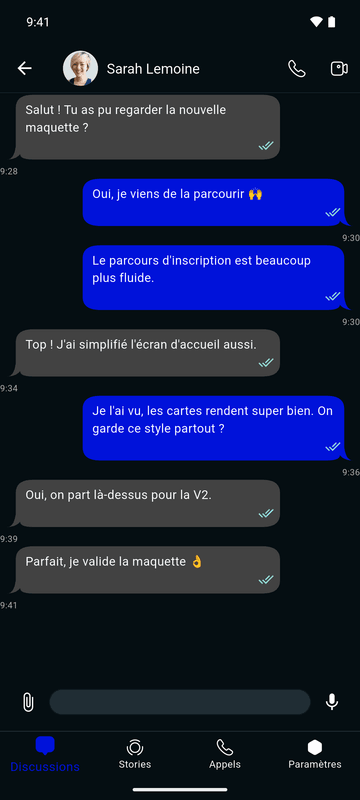
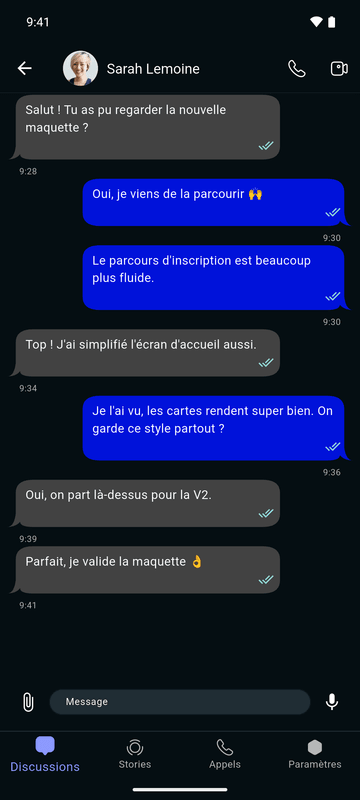
fix(ui): lisibilité sur fond sombre
Icônes claires dans la barre d'état, titre de connexion en blanc, liens et onglet actif dans un bleu éclairci, libellés « Rechercher » et « Message » dans les champs, heures des messages alignées sur les bulles. Captures et visite animée du README mises à jour.

diff --git a/lib/presentation/widget/bottom_nav.dart b/lib/presentation/widget/bottom_nav.dart
@@ -32,26 +32,26 @@ class _BottomNavState extends State<BottomNav> {
     PersistentBottomNavBarItem(
       icon: const Icon(Iconsax.message1, size: 22),
       title: "Discussions",
-      activeColorPrimary: AppColors.primaryColor,
-      inactiveColorPrimary: Colors.white,
+      activeColorPrimary: AppColors.accentText,
+      inactiveColorPrimary: Colors.white70,
     ),
     PersistentBottomNavBarItem(
       icon: const Icon(Iconsax.story, size: 22),
       title: "Stories",
-      activeColorPrimary: AppColors.primaryColor,
-      inactiveColorPrimary: Colors.white,
+      activeColorPrimary: AppColors.accentText,
+      inactiveColorPrimary: Colors.white70,
     ),
     PersistentBottomNavBarItem(
       icon: const Icon(Iconsax.call, size: 22),
       title: "Appels",
-      activeColorPrimary: AppColors.primaryColor,
-      inactiveColorPrimary: Colors.white,
+      activeColorPrimary: AppColors.accentText,
+      inactiveColorPrimary: Colors.white70,
     ),
     PersistentBottomNavBarItem(
       icon: const Icon(Iconsax.setting1, size: 22),
       title: "Paramètres",
-      activeColorPrimary: AppColors.primaryColor,
-      inactiveColorPrimary: Colors.white,
+      activeColorPrimary: AppColors.accentText,
+      inactiveColorPrimary: Colors.white70,
     ),
   ];
 

diff --git a/lib/presentation/navigation/root.dart b/lib/presentation/navigation/root.dart
@@ -1,4 +1,5 @@
 import 'package:flutter/material.dart';
+import 'package:flutter/services.dart';
 import 'package:provider/provider.dart';
 import '../../data/providers/auth_provider.dart';
 import '../../data/providers/bottom_nav_provider.dart';
@@ -23,6 +24,12 @@ class Root extends StatelessWidget {
         theme: ThemeData(
           colorScheme: ColorScheme.fromSeed(seedColor: Colors.deepPurple),
           useMaterial3: true,
+          appBarTheme: const AppBarTheme(systemOverlayStyle: SystemUiOverlayStyle.light),
+        ),
+        // Interface sombre : icônes claires dans la barre d'état, y compris sans AppBar.
+        builder: (context, child) => AnnotatedRegion<SystemUiOverlayStyle>(
+          value: SystemUiOverlayStyle.light,
+          child: child!,
         ),
         initialRoute: '/login',
         routes: {

diff --git a/lib/presentation/screens/auth/signup.dart b/lib/presentation/screens/auth/signup.dart
@@ -99,7 +99,7 @@ class _SignUpScreenState extends State<SignUpScreen> {
                   style: TextStyle(
                     fontSize: 24.0,
                     fontWeight: FontWeight.bold,
-                    color: AppColors.primaryColor,
+                    color: Colors.white,
                   ),
                 ),
                  const SizedBox(height: 16),
@@ -144,7 +144,7 @@ class _SignUpScreenState extends State<SignUpScreen> {
                   },
                   child: const Text(
                     "Déjà un compte ? Connectez-vous",
-                    style: TextStyle(color: AppColors.primaryColor),
+                    style: TextStyle(color: AppColors.accentText, fontWeight: FontWeight.w600),
                   ),
                 ),
               ],

diff --git a/lib/presentation/screens/auth/login.dart b/lib/presentation/screens/auth/login.dart
@@ -93,7 +93,7 @@ class _LoginScreenState extends State<LoginScreen> {
                   style: TextStyle(
                     fontSize: 24.0,
                     fontWeight: FontWeight.bold,
-                    color: AppColors.primaryColor,
+                    color: Colors.white,
                   ),
                 ),
                 const SizedBox(height: 16),
@@ -128,7 +128,7 @@ class _LoginScreenState extends State<LoginScreen> {
                   },
                   child: const Text(
                     "Pas encore de compte ? Inscrivez-vous",
-                    style: TextStyle(color: AppColors.primaryColor),
+                    style: TextStyle(color: AppColors.accentText, fontWeight: FontWeight.w600),
                   ),
                 ),
               ],

diff --git a/lib/presentation/widget/message_bubble.dart b/lib/presentation/widget/message_bubble.dart
@@ -87,9 +87,9 @@ class _MessageBubbleState extends State<MessageBubble> {
                   sent: true,
                   seen: true,
                 ),
-                // Timestamp
+                // Heure, alignée sur le bord de la bulle plutôt que sur celui de l'écran.
                 Padding(
-                  padding: const EdgeInsets.only(top: 4),
+                  padding: const EdgeInsets.fromLTRB(22, 4, 22, 0),
                   child: Text(
                     widget.time,
                     style: TextStyle(

diff --git a/lib/presentation/widget/send_zone.dart b/lib/presentation/widget/send_zone.dart
@@ -129,7 +129,7 @@ class _SendZoneState extends State<SendZone> {
           Expanded(
             child: InputField(
               controller: widget.messageController,
-              label: '', // Vous pouvez laisser le label vide ou mettre un placeholder
+              label: 'Message',
               keyboardType: TextInputType.text,
               obscureText: false,
               height: 30, // Hauteur réduite du champ de saisie

diff --git a/lib/core/theme.dart b/lib/core/theme.dart
@@ -2,6 +2,8 @@ import 'package:flutter/material.dart';
 
 class AppColors {
   static const Color primaryColor = Color.fromARGB(255, 0, 18, 218);
+  // Bleu éclairci pour les textes et liens sur fond sombre.
+  static const Color accentText = Color(0xFF8C99FF);
   static const Color secondaryColor = Color(0xFF0a171e);
   static const Color bottomBackColor = Color(0xFF050e12);
   static const Color backgroundColor = Color(0xFF0a171e);

diff --git a/lib/presentation/ui/search_input.dart b/lib/presentation/ui/search_input.dart
@@ -18,7 +18,7 @@ class SearchInput extends StatelessWidget {
             borderRadius: 8,
             backgroundColor: AppColors.inputBackground,
             controller: controller,
-            label: '',
+            label: 'Rechercher',
             keyboardType: TextInputType.text,
             obscureText: false,
             prefixIcon: const Icon(Icons.search, color: Colors.grey,size: 26), // Icône de recherche à gauche
